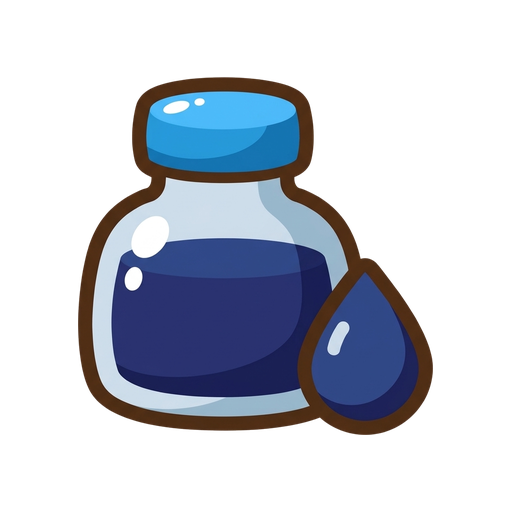
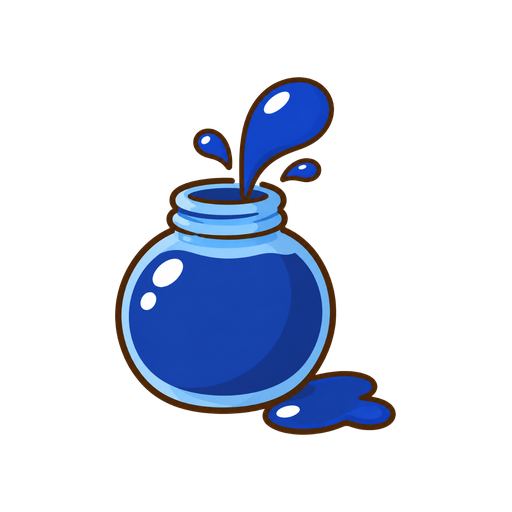
feat(findit): new Canva pictures a child can name without the word, from release 2026-11-05-findit-newart (FR-04)
The user picked 11 of 12 new pictures on review page 2026-11-05-findit-newart and marked all 11 OK on the
final review page (2026-11-05-findit-newart_final_review.csv).

- New words that a child names by their first sound, shown without the word in harder chapters:
  Octopus (for Ox), Lamp (Lit), Guitar (Gap), Horse (Hen), Jeep, a jeepney (Jet), Question, a question mark
  (Quiz).
- Redrawn and kept with their word, since a child may still call them something else: Ink, Up, Uncle, Yak,
  Quilt. Insect keeps today's picture (the user's choice).
- Canva generate-image (Canva Business trial), in the app's style from four style references, exported full
  size from the Canva design "PlayIT Canva pictures" (page 14, saved with the user's OK).
- tools/images/cutout.py cut them out. The gap between the octopus's tentacles is cut out too, and the
  jeepney's bright red was turned to tomato (it warned at 7%). tools/images/audit.py: 11 PASS.
- Checked by file name on a contact sheet of the changed letters.

Unit tests: 632 run, 0 failures, 6 skipped.

Claude-Session: https://claude.ai/code/session_019LmRgfVwaj6eV7McwmdGQF

diff --git a/app/src/main/java/com/playit/app/domain/manager/GridGenerator.kt b/app/src/main/java/com/playit/app/domain/manager/GridGenerator.kt
@@ -22,27 +22,27 @@ class GridGenerator @Inject constructor() {
         "s" to listOf("Sun" to "images/pictures/picture_sun.png", "Star" to "images/pictures/picture_star.png", "Snake" to "images/pictures/picture_snake.png"),
         "a" to listOf("Apple" to "images/pictures/picture_apple.png", "Ant" to "images/pictures/picture_ant.png", "Axe" to "images/pictures/picture_axe.png"),
         "i" to listOf("Insect" to "images/pictures/picture_insect.png", "Igloo" to "images/pictures/picture_igloo.png", "Ink" to "images/pictures/picture_ink.png"),
-        "o" to listOf("Orange" to "images/pictures/picture_orange.png", "Owl" to "images/pictures/picture_owl.png", "Ox" to "images/pictures/picture_ox.png"),
+        "o" to listOf("Orange" to "images/pictures/picture_orange.png", "Owl" to "images/pictures/picture_owl.png", "Octopus" to "images/pictures/picture_octopus.png"),
         "b" to listOf("Ball" to "images/pictures/picture_ball.png", "Bat" to "images/pictures/blendword_bat.png", "Bus" to "images/pictures/blendword_bus.png"),
         "e" to listOf("Elephant" to "images/pictures/picture_elephant.png", "Egg" to "images/pictures/picture_egg.png", "Envelope" to "images/pictures/picture_envelope.png"),
         "u" to listOf("Umbrella" to "images/pictures/picture_umbrella.png", "Up" to "images/pictures/picture_up.png", "Uncle" to "images/pictures/picture_uncle.png"),
         "t" to listOf("Tiger" to "images/pictures/picture_tiger.png", "Tree" to "images/pictures/picture_tree.png", "Top" to "images/pictures/picture_top.png"),
         "k" to listOf("Kite" to "images/pictures/picture_kite.png", "King" to "images/pictures/picture_king.png", "Key" to "images/pictures/picture_key.png"),
-        "l" to listOf("Lion" to "images/pictures/picture_lion.png", "Lit" to "images/pictures/blendword_lit.png", "Leaf" to "images/pictures/picture_leaf.png"),
+        "l" to listOf("Lion" to "images/pictures/picture_lion.png", "Lamp" to "images/pictures/picture_lamp.png", "Leaf" to "images/pictures/picture_leaf.png"),
         "y" to listOf("Yoyo" to "images/pictures/picture_yoyo.png", "Yak" to "images/pictures/picture_yak.png", "Yarn" to "images/pictures/picture_yarn.png"),
         "n" to listOf("Nest" to "images/pictures/picture_nest.png", "Nut" to "images/pictures/picture_nut.png", "Net" to "images/pictures/picture_net.png"),
-        "g" to listOf("Goat" to "images/pictures/picture_goat.png", "Gap" to "images/pictures/blendword_gap.png", "Gift" to "images/pictures/picture_gift.png"),
+        "g" to listOf("Goat" to "images/pictures/picture_goat.png", "Guitar" to "images/pictures/picture_guitar.png", "Gift" to "images/pictures/picture_gift.png"),
         "ng" to listOf("Ring" to "images/pictures/picture_ring.png", "Wing" to "images/pictures/picture_wing.png", "King" to "images/pictures/picture_king.png"),
         "p" to listOf("Pig" to "images/pictures/picture_pig.png", "Pan" to "images/pictures/blendword_pan.png", "Pin" to "images/pictures/blendword_pin.png"),
         "r" to listOf("Rabbit" to "images/pictures/picture_rabbit.png", "Road" to "images/pictures/blendword_road.png", "Rocket" to "images/pictures/picture_rocket.png"),
         "d" to listOf("Dog" to "images/pictures/picture_dog.png", "Drum" to "images/pictures/picture_drum.png", "Duck" to "images/pictures/picture_duck.png"),
-        "h" to listOf("Hat" to "images/pictures/picture_hat.png", "Hen" to "images/pictures/blendword_hen.png", "Hand" to "images/pictures/blendword_hand.png"),
+        "h" to listOf("Hat" to "images/pictures/picture_hat.png", "Horse" to "images/pictures/picture_horse.png", "Hand" to "images/pictures/blendword_hand.png"),
         "w" to listOf("Watch" to "images/pictures/picture_watch.png", "Wing" to "images/pictures/picture_wing.png", "Worm" to "images/pictures/picture_worm.png"),
         "c" to listOf("Cat" to "images/pictures/picture_cat.png", "Cake" to "images/pictures/blendword_cake.png", "Cup" to "images/pictures/blendword_cup.png"),
         "f" to listOf("Fish" to "images/pictures/picture_fish.png", "Fan" to "images/pictures/blendword_fan.png", "Fox" to "images/pictures/blendword_fox.png"),
-        "j" to listOf("Jug" to "images/pictures/picture_jug.png", "Jam" to "images/pictures/blendword_jam.png", "Jet" to "images/pictures/picture_jet.png"),
+        "j" to listOf("Jug" to "images/pictures/picture_jug.png", "Jam" to "images/pictures/blendword_jam.png", "Jeep" to "images/pictures/picture_jeep.png"),
         "ñ" to listOf("Piña" to "images/pictures/picture_pina.png", "Niño" to "images/pictures/picture_nino.png", "Baño" to "images/pictures/picture_bano.png"),
-        "q" to listOf("Queen" to "images/pictures/picture_queen.png", "Quiz" to "images/pictures/blendword_quiz.png", "Quilt" to "images/pictures/picture_quilt.png"),
+        "q" to listOf("Queen" to "images/pictures/picture_queen.png", "Question" to "images/pictures/picture_question.png", "Quilt" to "images/pictures/picture_quilt.png"),
         "v" to listOf("Van" to "images/pictures/picture_van.png", "Vase" to "images/pictures/picture_vase.png", "Vest" to "images/pictures/picture_vest.png"),
         "x" to listOf("Box" to "images/pictures/picture_box.png", "Fox" to "images/pictures/blendword_fox.png", "Six" to "images/pictures/picture_six.png"),
         "z" to listOf("Zebra" to "images/pictures/picture_zebra.png", "Zoo" to "images/pictures/blendword_zoo.png", "Zip" to "images/pictures/picture_zip.png")

diff --git a/app/src/main/java/com/playit/app/domain/manager/WordLabelPolicy.kt b/app/src/main/java/com/playit/app/domain/manager/WordLabelPolicy.kt
@@ -17,14 +17,14 @@ object WordLabelPolicy {
     const val WORDS_KEPT_IN_CHAPTER_2 = 2
 
     /**
-     * Pictures that keep their word, from the user's choices on review page 2026-11-05-findit-clarity: the ones marked
-     * "keep the word", and the ones waiting for new art. Mat, Kit, Draw and Web were swapped for Mom, King, Drum and
-     * Wing instead.
+     * Pictures that keep their word, from the user's choices on review page 2026-11-05-findit-clarity ("keep the
+     * word"), and the redrawn ones (release 2026-11-05-findit-newart) whose subject a child may still call something
+     * else. Lamp, Guitar, Horse, Jeep, Octopus and Question replaced Lit, Gap, Hen, Jet, Ox and Quiz, and show
+     * without a word.
      */
     val keepsWord: Set<String> = setOf(
-        // waiting for new art
-        "picture_insect", "picture_ink", "picture_ox", "picture_up", "picture_uncle", "blendword_lit", "picture_yak",
-        "blendword_gap", "blendword_hen", "picture_jet", "blendword_quiz", "picture_quilt",
+        // redrawn, but a child may still call it something else
+        "picture_insect", "picture_ink", "picture_up", "picture_uncle", "picture_yak", "picture_quilt",
         // keep the word
         "picture_axe", "picture_igloo", "picture_envelope", "picture_top", "picture_yarn", "picture_nut",
         "blendword_pin", "blendword_fox", "picture_jug", "picture_queen", "picture_vase"

diff --git a/docs/design/adviser-enhancements.md b/docs/design/adviser-enhancements.md
@@ -24,14 +24,11 @@ Branch `enhance/adviser-feedback`, cut from `design/visual-refresh` at `86408a9`
 
 | **Who is playing? and the name step** | `d2eaa33` | <ul><li>Release `2026-11-05-name-lines`: "Who is playing? Tap your animal!" and "Now type your name!".</li><li>The long hello plays only before any child has a profile.</li></ul> |
 
+| **New Find It pictures** | (this commit) | <ul><li>Release `2026-11-05-findit-newart`: 11 Canva pictures, each marked OK on the final review page.</li><li>Lamp, Guitar, Horse, Jeep, Octopus and Question (a question mark) replace Lit, Gap, Hen, Jet, Ox and Quiz, and show without their word.</li><li>Ink, Up, Uncle, Yak and Quilt are redrawn and keep their word.</li><li>Insect keeps today's picture.</li><li>The pictures were exported full size from the Canva design "PlayIT Canva pictures" (page 14, saved with the user's OK), then cut out. The jeepney's bright red was turned to tomato.</li></ul> |
+
 ## Waiting for the user
 
-1. **Final check of the new Canva pictures** (`Documents/playIT-image-batches/2026-11-05-findit-newart/final/index.html`):
-   - The user picked 11 on 2026-11-05: ink, octopus, up, uncle, lamp, yak, guitar, horse, jeepney, question mark and quilt. Insect keeps today's picture.
-   - They were exported full size from the Canva design "PlayIT Canva pictures", page 14, saved with the user's OK. They were then cut out (the gap between the octopus's tentacles is cut out too), and the jeepney's bright red was turned to tomato. They pass every automatic check.
-   - After the OK, `tools/images/make_release.py` releases them:
-     - `GridGenerator.pictureBank` takes Octopus, Lamp, Guitar, Horse, Jeep and Question in place of Ox, Lit, Gap, Hen, Jet and Quiz, and new art for Ink, Up, Uncle, Yak and Quilt;
-     - `WordLabelPolicy.keepsWord` drops the six replaced words.
+Nothing from this round. The new clips and pictures still need the teacher audit before main.
 
 ## For the documents (Zendrix)
 
